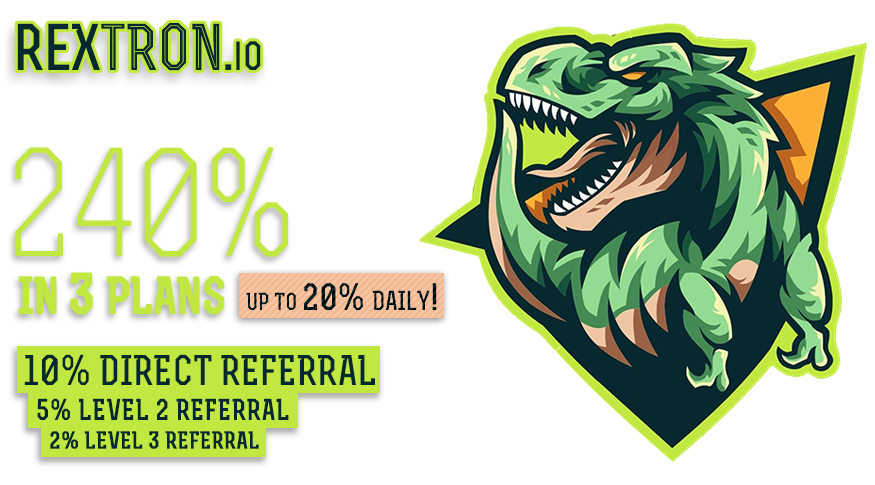
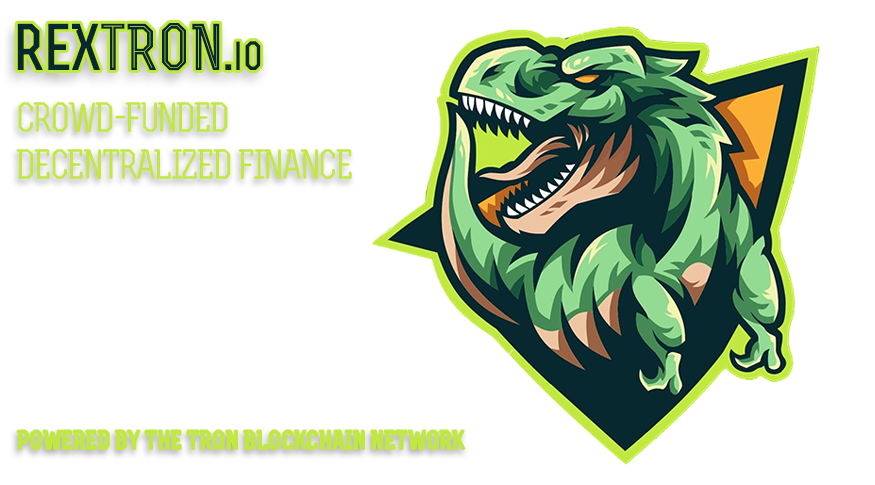
placeholder

diff --git a/index.html b/index.html
@@ -1,48 +1,154 @@
 <!doctype html>
 <html lang="en-us">
 <head>
-<!-- Global site tag (gtag.js) - Google Analytics -->
-<script async src="https://www.googletagmanager.com/gtag/js?id=G-HB9YWFQXZE"></script>
-<script>
-  window.dataLayer = window.dataLayer || [];
-  function gtag(){dataLayer.push(arguments);}
-  gtag('js', new Date());
-
-  gtag('config', 'G-HB9YWFQXZE');
-</script>
 <link rel="icon" href="favicon.ico">
 <meta charset="utf-8">
-<link rel="icon" href="favicon.png" type="image/png">  
-<link rel="shortcut icon" href="favicon.ico" type="image/x-icon">
-<link href="favicon.png" sizes="64x64"  rel="icon" type="image/png">
-<link href="favicon.png" rel="apple-touch-icon">
 <meta name="viewport" content="width=device-width, initial-scale=1.0, maximum-scale=1.0, user-scalable=no">
-<meta name="description" content="RexTRON High-yield Investment Platform | 240% in 3 Plans | Up to 20% Daily | No Limits | 10% Direct Referral | 5% - 2% Sub-referrals">
-<meta name="twitter:card" value="summary_large_image">
-<meta property="og:title" content="RexTRON.io">
-<meta property="og:type" content="article" />
-<meta property="og:url" content="index.html" />
-<meta property="og:image" content="market.jpg" />
-<meta property="og:description" content="RexTRON High-yield Investment Platform | 240% in 3 Plans | Up to 20% Daily | No Limits | 10% Direct Referral | 5% - 2% Sub-referrals" />
-<title>RexTRON.io</title>
+<meta name="description" content="TRON High-yield Investment Platform | Get 300% in 15 Days | 20% Daily | No Limits | 8% Direct Referral | 5% & 2% Sub-referral">
+<title>RexTRON</title>
 <link rel="stylesheet" href="fonts/import.css">
 <link rel="stylesheet" href="reset.css">
+<link rel="stylesheet" href="customs.css">
 <script src="jquery.min.js"></script>
+<script src="countdown.js"></script>
 </head>
 <body>
+    <div>
     <div hero container>
         <img src="hero.png">
-        <a href="#" onclick="alert('Not Yet Available!')">VIEW CONTRACT</a>
-        <a href="#" onclick="alert('Not Yet Available!')">AUDIT REPORT</a>
-        <a href="https://t.me/rextronofficial" style="margin-left: 32px">TELEGRAM GROUP</a>
+        <a href="#" onclick='alert("Coming Soon!")'>VIEW CONTRACT</a>
+        <a href="#" onclick='alert("Coming Soon!")'>AUDIT REPORT</a>
+        <a href="https://t.me/rextronofficial">TELEGRAM GROUP</a>
     </div>
     <div countdown container>
-        <h4 style="text-align: center">Launching on Feb 26, 12PM UTC</h4>
+        <h4 style="text-align: center">Launching on March 2, 8AM UTC</h4>
         <h3 id="countdown" style="text-align: center"></h3>
     </div>
-    <div container style="text-align: center; opacity: 0.5">
+    <div stats container>
+        <div>
+            <span>---</span>
+            <span>TRX IN</span>
+        </div>
+        <div>
+            <span>---</span>
+            <span>TRX OUT</span>
+        </div>
+        <div>
+            <span>---</span>
+            <span>USERS</span>
+        </div>
+    </div>
+    <div in container>
+		<h3>Earn up to 300%!</h3>
+        <hr>
+        <div>
+            <table>
+                <thead>
+                    <th>TOTAL INVESTMENT AMOUNT</th>
+                    <th>DAILY INCOME</th>
+                    <th> DAYS</th>
+                </thead>
+                <tr>
+                    <td>100TRX - 5,000TRX</td>
+                    <td>20%</td>
+                    <td>15</td>
+                </tr>
+                <tr>
+                    <td>5,001TRX - 10,000TRX</td>
+                    <td>15%</td>
+                    <td>20</td>
+                </tr>
+                <tr>
+                    <td>10,001TRX - 20,000TRX</td>
+                    <td>10%</td>
+                    <td>30</td>
+                </tr>
+                <tr>
+                    <td>20,001TRX - 50,000TRX</td>
+                    <td>6%</td>
+                    <td>50</td>
+                </tr>
+                <tr>
+                    <td>50,001TRX - NO LIMIT</td>
+                    <td>2%</td>
+                    <td>150</td>
+                </tr>
+            </table>
+            <h6 style="text-decoration: none">Daily income(%) will change when each amount is reached.</h6>
+        </div>
+    </div>
+    <div in container>
+        <h1>INVEST</h1>
+        <div padded>
+            <div form>
+                <input type="number" placeholder="100 TRX" value="100" step="100" min="100" v-model.number="calc.amount" @change="calc.amount = calc.amount < 100 ? 100 : calc.amount"><input type="button" value="INVEST" @click.prevent="deposit(calc.amount)">
+            </div>
+            <small>TX fee: 10-25 <span trx>TRX<span></small>
+        </div>
+    </div>
+    <div out container>
+        <h1>DASHBOARD</h1>
+        <div padded>
+            <table>
+                <tr>
+                    <td>REMAINING TIME: </td>
+                    <td>---</td>
+                </tr>
+            </table>
+            <hr>
+            <h3>AVAILABLE INCOME</h3>
+            <div form>
+                <input type="number" placeholder="..." v-model.number="user.for_withdraw" disabled><input type="button" value="WITHDRAW" @click.prevent="withdraw()">
+            </div>
+            <small>TX fee: 5-10 <span trx>TRX<span></small>
+            <hr>
+            <h3>REFERRAL INCOME</h3>
+            <div form>
+                <input type="number" placeholder="..." v-model.number="user.total_refreward" disabled><input type="button" value="WITHDRAW" @click.prevent="withdraw_ref()">
+            </div>
+            <small>TX fee: 2-5 <span trx>TRX<span></small>
+        </div>
+        <div stats>
+            <div>
+                <span>---</span>
+                <span>INVESTED</span>
+            </div>
+            <div>
+                <span>---</span>
+                <span>WITHDRAWN</span>
+            </div>
+            <div>
+                <span>---</span>
+                <span>DAILY INCOME</span>
+            </div>
+        </div>
+    </div>
+    <div ref container>
+        <h1>REFERRAL</h1>
+        <div padded>
+            <div form>
+                <input type="text" placeholder="rextron.io?r=T..." disabled v-model.text="location.origin + location.pathname + '?r=' + tron.account"><input type="button" value="COPY"@click="copyText(location.origin + location.pathname + '?r=' + tron.account)">
+            </div>
+        </div>
+        <div stats>
+            <div>
+                <span>---</span>
+                <span>LVL1 (8%)</span>
+            </div>
+            <div>
+                <span>---</span>
+                <span>LVL2 (5%)</span>
+            </div>
+            <div>
+                <span>---</span>
+                <span>LVL3 (2%)</span>
+            </div>
+        </div>
+    </div>
+    <div container style="text-align: center">
+        <h6>&ldquo;Investment is a long-term process&rdquo;</h6>
         rextron.io &copy; 2021
     </div>
-<script src="countdown.js?v=3"></script>
+    </div>
 </body>
 </html>

diff --git a/countdown.js b/countdown.js
@@ -18,7 +18,7 @@ function(a){return x(this,a)};z=function(a){var b=[],c=a.millennia;c&&b.push(f(c
 d.CENTURIES=512;d.MILLENNIA=1024;d.DEFAULTS=222;d.ALL=2047;var E=d.setFormat=function(a){if(a){if("singular"in a||"plural"in a){var b=a.singular||[];b.split&&(b=b.split("|"));var c=a.plural||[];c.split&&(c=c.split("|"));for(var d=0;10>=d;d++)p[d]=b[d]||p[d],q[d]=c[d]||q[d]}"string"===typeof a.last&&(r=a.last);"string"===typeof a.delim&&(t=a.delim);"string"===typeof a.empty&&(u=a.empty);"function"===typeof a.formatNumber&&(y=a.formatNumber);"function"===typeof a.formatter&&(f=a.formatter)}},C=d.resetFormat=
 function(){p=" millisecond; second; minute; hour; day; week; month; year; decade; century; millennium".split(";");q=" milliseconds; seconds; minutes; hours; days; weeks; months; years; decades; centuries; millennia".split(";");r=" and ";t=", ";u="";y=function(a){return a};f=D};d.setLabels=function(a,b,c,d,f,k,m){E({singular:a,plural:b,last:c,delim:d,empty:f,formatNumber:k,formatter:m})};d.resetLabels=C;C();v&&v.exports?v.exports=d:"function"===typeof window.define&&"undefined"!==typeof window.define.amd&&
 window.define("countdown",[],function(){return d});return d}(module);
-var release_date = 1614340800 * 1000;
+var release_date = 1614672000 * 1e3;
 $(function() {
     var cd = setInterval(function() {
         if(new Date().getTime() <= release_date) {
@@ -29,3 +29,20 @@ $(function() {
         }
     }, 1000);
 });
+function formatAmount(n) {
+    var ranges = [
+        { divider: 1e18 , suffix: 'E' },
+        { divider: 1e15 , suffix: 'P' },
+        { divider: 1e12 , suffix: 'T' },
+        { divider: 1e9 , suffix: 'B' },
+        { divider: 1e6 , suffix: 'M' },
+        { divider: 1e3 , suffix: 'K' }
+    ];
+    for (var i = 0; i < ranges.length; i++) {
+        if (n >= ranges[i].divider) {
+            n = Math.floor(n / (ranges[i].divider/100))/100;
+            return n.toString() + ranges[i].suffix;
+        }
+    }
+    return n.toString();
+}

diff --git a/reset.css b/reset.css
@@ -4,7 +4,7 @@ body {
     background-size: 100% auto;
     background-repeat: no-repeat;
     background-position: top;
-    background-attachment: scroll;
+    background-attachment: fixed;
     color: #eee;
     background-color: #000;
     font-family: "Cabin", "Open Sans", Helvetica, sans-serif;
@@ -58,7 +58,12 @@ a:hover, input[type="button"]:hover {
 }
 [container] [form] > input:first-child {
     color: #c2e93c;
-    background: #000;
+    background: url(bg.jpg);
+    background-size: 100% auto;
+    background-repeat: no-repeat;
+    background-position: top;
+    background-attachment: scroll;
+    background-color: #000;
     border: thin solid #c2e93c;
     border-right: none !important;
     font-size: 1.5em;
@@ -131,4 +136,22 @@ a:hover, input[type="button"]:hover {
 }
 [stats] > div > span:last-child {
     font-size: 1em;
+}
+
+table {
+}
+table td, table th {
+    padding: 2px;
+    text-align: left;
+}
+table thead, table th {
+    background: #fff1;
+    font-size: 0.9em;
+}
+table td {
+    font-family: monospace;
+}
+table td:nth-child(2),
+table td:nth-child(3) {
+    text-align: right;
 }
